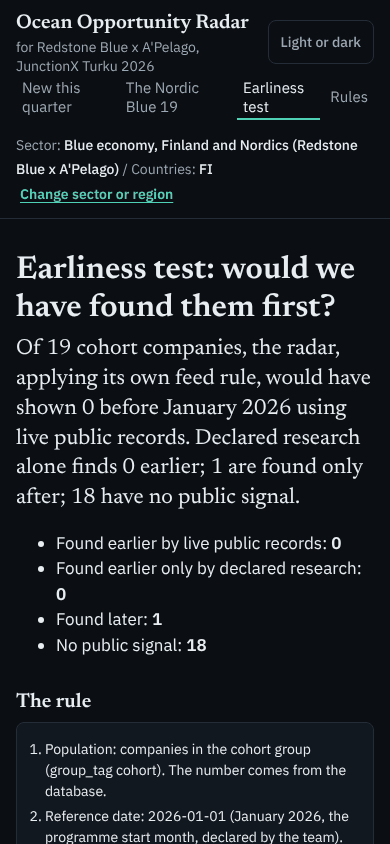
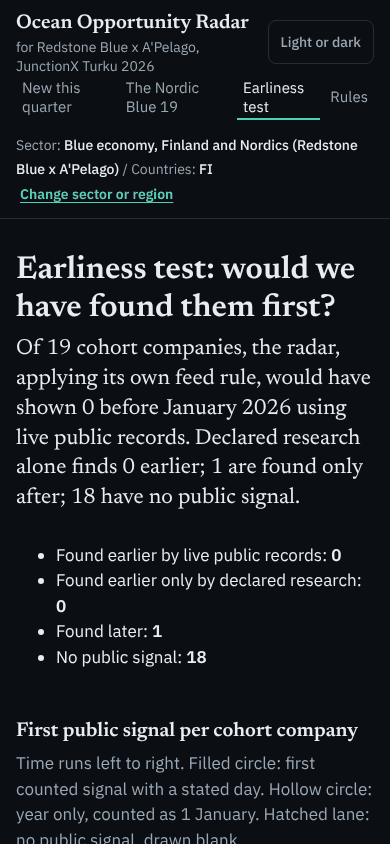
visual polish slice 2: company page answers first, phone-readable earliness chart, compact radar rows, one radius
Items 3 to 5 of tasks/cloud/jx30_visual_polish.md, plus the chief's answer on
question 02 and 03 lines:
- Company page: name, then (once cloud/vc_memo lands) the memo, then the four
  questions, then the evidence (connections, life-line, register facts,
  records). Done with CSS order on the main column; the DOM order and the
  template blocks are unchanged. Each question is a separated block with its
  one-line answer in Newsreader 22 px before the evidence. New
  radar/templates/_answers.html holds the two answer macros, one new line each
  under the 02 and 03 headings, built only from values the page shows:
  Kelluu reads "Business readiness 4 of 9, technology 4 of 9, investment 4 of
  9; ocean impact: no public evidence." and "5 funding programmes match; the
  first one is listed with its reason."; TuniSea reads "Business readiness:
  no public evidence, technology: no public evidence, investment: no public
  evidence; ocean impact: no public evidence." Question 04 uses its existing
  step sentence at the same size; question 01 keeps its long reasons
  sentence at body size until the wide-intake change gives it a short one.
  Evidence chips show the source name in teal, underlined, so they read as
  links; hatched "not in public records" chips are unchanged. The readiness
  table stacks on a phone. Header and footer line up with the three-column
  layout on a laptop. Memo styles are ready by class (.memo) in company.css.
[…]

Changed region(s): [[0.0308, 0.6161, 0.9538, 1.0]]

diff --git a/radar/static/company.css b/radar/static/company.css
@@ -31,7 +31,7 @@ main.wrap{max-width:1360px}
 .s-conf{color:var(--muted);font-size:.875rem}
 .connectors{margin-top:24px}
 .connectors li{display:flex;gap:12px;align-items:center;padding:6px 0;color:var(--muted);font-size:.875rem}
-.connectors button{min-width:7rem;min-height:36px;background:transparent;color:var(--muted);border:1px dashed var(--hairline);border-radius:6px;font:inherit;cursor:not-allowed}
+.connectors button{min-width:7rem;min-height:36px;background:transparent;color:var(--muted);border:1px dashed var(--hairline);border-radius:var(--radius);font:inherit;cursor:not-allowed}
 .co-sources{margin-top:40px;border-top:1px solid var(--hairline)}
 .co-sources h2{font-size:1rem;margin-top:16px}
 .co-sources ul{list-style:none;padding:0;margin:0}
@@ -43,8 +43,8 @@ main.wrap{max-width:1360px}
 .fact dd>a{display:inline-flex;align-items:center;min-height:var(--tap)}
 .search{display:flex;flex-wrap:wrap;gap:8px;align-items:center;margin:16px 0}
 .search label{flex:1 1 100%;color:var(--muted);font-size:.875rem}
-.search input{flex:1 1 14rem;min-height:44px;padding:0 12px;background:var(--surface);color:var(--text);border:1px solid var(--hairline);border-radius:6px;font:inherit}
-.search button{min-height:44px;padding:0 16px;background:var(--surface);color:var(--text);border:1px solid var(--accent);border-radius:6px;font:inherit;cursor:pointer}
+.search input{flex:1 1 14rem;min-height:44px;padding:0 12px;background:var(--surface);color:var(--text);border:1px solid var(--hairline);border-radius:var(--radius);font:inherit}
+.search button{min-height:44px;padding:0 16px;background:var(--surface);color:var(--text);border:1px solid var(--accent);border-radius:var(--radius);font:inherit;cursor:pointer}
 @media (min-width:1100px){
   .co-layout{display:grid;grid-template-columns:240px minmax(0,720px) 360px;gap:32px;justify-content:center;align-items:start}
   .co-rail{display:flex;flex-direction:column;position:sticky;top:16px;margin-top:32px}
@@ -68,3 +68,44 @@ main.wrap{max-width:1360px}
 /* jx20 */
 .connectors button{min-height:44px}
 .connect a{display:inline-block;min-width:44px;padding:10px 0;text-align:center}
+/* jx30: the company page leads with the answers. Visual order: name, memo (cloud/vc_memo, any element before
+   question 01), the four questions, then the evidence (connections, life-line, register facts, records).
+   The DOM order is unchanged; only the main column is reordered. */
+.co-main{display:flex;flex-direction:column}
+.co-head{display:contents}
+.co-group{order:-3}
+.co-head h1{order:-2;margin-bottom:var(--s4)}
+.q-fit{order:1}.q-ready{order:2}.q-next{order:3}.q-step{order:4}
+.connect{order:5;margin-top:var(--s7)}
+.lifeline{order:6}
+.facts{order:7;margin-top:var(--s6)}
+.signals{order:8}
+/* four clearly separated answers: rule, number, question, one answer line, then the evidence */
+.q{margin-top:var(--s6);padding-top:var(--s5);border-top:1px solid var(--hairline)}
+.co-head h1+.q,.q:first-of-type{margin-top:var(--s5)}
+.q h2{font-size:1.375rem;margin-bottom:var(--s3)}
+.answer-line,.step-sentence{font-family:var(--serif);font-size:var(--fs-answer);font-weight:400;line-height:1.35;color:var(--text);margin:0 0 var(--s3)}
+.q-ready>p.plain,.q-next>p.plain{color:var(--muted);font-size:var(--fs-small);margin:0 0 var(--s3)}
+.q-step>p.plain{margin:0 0 var(--s3)}
+/* question 01 opens with its long reasons sentence (one-line answer comes with the wide-intake change), read at body size */
+.q-fit>p.plain:first-of-type{font-size:1.0625rem;color:var(--text);margin:0 0 var(--s3)}
+.lifeline h2,.signals h2{font-size:1.25rem}
+/* evidence looks clickable; missing evidence stays hatched and never looks like a value */
+.ev-src{color:var(--accent);text-decoration:underline;text-underline-offset:3px}
+.lvl strong{font-family:var(--serif);font-size:1.1875rem;font-weight:600;color:var(--text)}
+.ready th{font-size:var(--fs-small)}
+@media (max-width:640px){
+  .ready,.ready tbody,.ready tr,.ready th,.ready td{display:block;width:100%}
+  .ready th{padding:var(--s4) 0 var(--s1);border-bottom:0}
+  .ready td{padding:0 0 var(--s4)}
+}
+/* the header and footer line up with the three-column layout on a laptop */
+body:has(.co-layout) .top .wrap,body:has(.co-layout) .foot{max-width:1360px}
+/* memo block from cloud/vc_memo: hero position, verdict at the answer size, then its four lines */
+.memo{order:0;margin:0 0 var(--s5);padding:var(--s4) var(--s4) var(--s3);border:1px solid var(--hairline);border-left:3px solid var(--accent);border-radius:var(--radius);background:var(--surface)}
+.memo h2{margin:0 0 var(--s2);font-size:var(--fs-small);font-family:var(--sans);font-weight:600;letter-spacing:.06em;text-transform:uppercase;color:var(--muted)}
+.memo .answer,.memo .memo-verdict,.memo .verdict{font-family:var(--serif);font-size:var(--fs-answer);line-height:1.3;margin:0 0 var(--s3)}
+.memo dl,.memo ul{margin:0;padding:0;list-style:none}
+.memo dt{font-weight:600}
+.memo dd{margin:0 0 var(--s3)}
+.memo li{padding:var(--s2) 0;border-top:1px solid var(--hairline)}

diff --git a/radar/static/app.css b/radar/static/app.css
@@ -38,17 +38,17 @@ nav{display:flex;gap:4px}
 nav a{display:inline-flex;align-items:center;min-height:44px;padding:0 10px;color:var(--muted);text-decoration:none}
 nav a[aria-current="page"]{color:var(--text);box-shadow:inset 0 -2px 0 var(--accent)}
 #theme-toggle{flex:none;min-height:var(--tap);padding:0 var(--s3);background:transparent;color:var(--muted);border:1px solid var(--hairline);border-radius:var(--radius);font:500 var(--fs-small) var(--sans);cursor:pointer}
-.empty{border:1px solid var(--hairline);background:var(--surface);border-radius:8px;padding:24px 16px;margin:16px 0}
-.answer{font-family:var(--serif);font-size:1.375rem;line-height:1.35;margin:0 0 12px}
+.empty{border:1px solid var(--hairline);background:var(--surface);border-radius:var(--radius);padding:24px 16px;margin:16px 0}
+.answer{font-family:var(--serif);font-size:var(--fs-answer);line-height:1.35;margin:0 0 12px}
 .answer code{color:var(--accent)}
-.hatch{display:inline-block;padding:2px 10px;border:1px solid var(--hairline);border-radius:999px;font-size:.875rem;color:var(--muted);background:repeating-linear-gradient(135deg,transparent 0 5px,var(--hairline) 5px 6px)}
+.hatch{display:inline-block;padding:2px 10px;border:1px solid var(--hairline);border-radius:var(--round);font-size:.875rem;color:var(--muted);background:repeating-linear-gradient(135deg,transparent 0 5px,var(--hairline) 5px 6px)}
 .rule{color:var(--muted);font-size:.875rem;border-top:1px solid var(--hairline);padding-top:12px;margin-top:24px}
-.rulebox{background:var(--surface);border:1px solid var(--hairline);border-radius:8px;padding:12px 16px;overflow-x:auto;white-space:pre-wrap}
+.rulebox{background:var(--surface);border:1px solid var(--hairline);border-radius:var(--radius);padding:12px 16px;overflow-x:auto;white-space:pre-wrap}
 .feed{list-style:none;padding:0;margin:0}
 .feed li{display:flex;flex-wrap:wrap;gap:4px 16px;align-items:baseline;padding:12px 0;border-bottom:1px solid var(--hairline)}
 .feed .co{font-weight:600;color:var(--text)}
 .feed .sig,.feed time{color:var(--muted);font-size:.875rem}
-.chip{font-size:.875rem;border:1px solid var(--hairline);border-radius:999px;padding:2px 10px;text-decoration:none}
+.chip{font-size:.875rem;border:1px solid var(--hairline);border-radius:var(--round);padding:2px 10px;text-decoration:none}
 .foot{display:flex;justify-content:space-between;gap:16px;flex-wrap:wrap;border-top:1px solid var(--hairline);margin-top:48px;padding:16px;color:var(--muted);font-size:.875rem}
 nav .soon{display:inline-flex;align-items:center;min-height:44px;padding:0 10px;color:var(--muted);opacity:.6}
 
@@ -94,8 +94,8 @@ details.why-box>summary{display:flex;align-items:center;min-height:44px;cursor:p
 .how li{counter-increment:s;padding:16px 0;border-bottom:1px solid var(--hairline)}
 .how li::before{content:counter(s);font-family:var(--serif);font-size:1.5rem;color:var(--accent);margin-right:10px}
 .how li p{display:inline;font-size:1.0625rem}
-.how img{display:block;width:100%;max-width:420px;height:auto;margin-top:12px;border:1px solid var(--hairline);border-radius:8px}
-.errpage .btnlink{border:1px solid var(--accent);padding:0 16px;border-radius:6px}
+.how img{display:block;width:100%;max-width:420px;height:auto;margin-top:12px;border:1px solid var(--hairline);border-radius:var(--radius)}
+.errpage .btnlink{border:1px solid var(--accent);padding:0 16px;border-radius:var(--radius)}
 .tiles .tile{display:flex;align-items:flex-start;text-align:left}
 @media (max-width:640px){
   .bar{gap:0 12px}

diff --git a/radar/static/feed.css b/radar/static/feed.css
@@ -2,16 +2,16 @@
 .search{margin:0 0 16px}
 .search label{display:block;font-size:1rem;font-weight:600;color:var(--text);margin-bottom:var(--s1)}
 .searchrow{display:flex;gap:8px}
-.searchrow input{flex:1;min-width:0;min-height:44px;padding:0 12px;border:1px solid var(--hairline);border-radius:8px;background:var(--surface);color:var(--text);font:inherit}
-.searchrow button{min-height:44px;padding:0 16px;border:1px solid var(--accent);border-radius:8px;background:transparent;color:var(--accent);font:inherit;font-weight:600;cursor:pointer}
+.searchrow input{flex:1;min-width:0;min-height:44px;padding:0 12px;border:1px solid var(--hairline);border-radius:var(--radius);background:var(--surface);color:var(--text);font:inherit}
+.searchrow button{min-height:44px;padding:0 16px;border:1px solid var(--accent);border-radius:var(--radius);background:transparent;color:var(--accent);font:inherit;font-weight:600;cursor:pointer}
 .searchrow input:focus-visible,.searchrow button:focus-visible{outline:2px solid var(--accent);outline-offset:2px}
 .matches ul{list-style:none;padding:0;margin:0 0 16px}
 .matches li{padding:10px 0;border-bottom:1px solid var(--hairline)}
 .matches h2{margin-top:8px}
-.answer{font-family:var(--serif);font-size:1.25rem;margin:16px 0 8px}
+.answer{font-family:var(--serif);font-size:var(--fs-answer);line-height:1.35;margin:var(--s4) 0 var(--s2)}
 
 .pills{display:flex;flex-wrap:wrap;gap:8px;margin:16px 0}
-.pill{display:inline-flex;align-items:center;gap:6px;min-height:44px;padding:0 14px;border:1px solid var(--hairline);border-radius:999px;
+.pill{display:inline-flex;align-items:center;gap:6px;min-height:44px;padding:0 14px;border:1px solid var(--hairline);border-radius:var(--round);
   color:var(--text);text-decoration:none;font-size:.875rem;background:var(--surface)}
 .pill .n{color:var(--muted);font-variant-numeric:tabular-nums}
 .pill.zero{color:var(--muted)}
@@ -34,7 +34,7 @@
 .sep{padding:0 2px}
 .detail{margin:8px 0 8px;overflow-wrap:anywhere}
 .proof{display:flex;flex-wrap:wrap;align-items:center;gap:8px;margin-top:8px}
-.amt{display:inline-flex;flex-wrap:wrap;align-items:center;gap:2px 8px;min-height:44px;padding:4px 12px;border:1px solid var(--hairline);border-radius:999px;
+.amt{display:inline-flex;flex-wrap:wrap;align-items:center;gap:2px 8px;min-height:44px;padding:4px 12px;border:1px solid var(--hairline);border-radius:var(--round);
   color:var(--text);text-decoration:none;font-size:.875rem;font-variant-numeric:tabular-nums;font-weight:600}
 .amt-src{font-weight:400;color:var(--muted)}
 .conf{font-size:.875rem;color:var(--muted)}
@@ -51,4 +51,4 @@
 details.weak{margin-top:32px;border-top:1px solid var(--hairline)}
 details.weak>summary{cursor:pointer;padding:16px 0;color:var(--muted);font-weight:600}
 .reasons dt{font-weight:600;margin-top:8px}.reasons dd{margin:0 0 0 16px;color:var(--muted)}
-.cc{display:inline-block;margin-left:6px;padding:0 6px;border:1px solid var(--hairline);border-radius:4px;font-size:.875rem;color:var(--muted);vertical-align:middle}
+.cc{display:inline-block;margin-left:6px;padding:0 6px;border:1px solid var(--hairline);border-radius:var(--radius);font-size:.875rem;color:var(--muted);vertical-align:middle}

diff --git a/radar/static/backtest.css b/radar/static/backtest.css
@@ -2,7 +2,7 @@
 .muted{color:var(--muted);font-size:.875rem}
 .bt-rule{white-space:normal;padding-left:28px;margin:8px 0;font-size:.875rem}
 .bt-rule li{margin:4px 0}
-.bt-chart{display:block;width:100%;max-width:520px;height:auto;margin:8px 0 24px;font-family:var(--sans)}
+.bt-chart{display:block;width:100%;max-width:520px;height:auto;margin:8px 0 24px;font-family:var(--sans);overflow:visible}
 .bt-chart text{fill:var(--text);font-size:11.5px}
 .bt-name{font-weight:600;font-size:12.5px}
 .bt-chart a:focus-visible text{text-decoration:underline}
@@ -27,3 +27,32 @@
   .bt-table td{border:0;padding:2px 0;white-space:normal}
   .bt-table td:nth-child(3),.bt-table td:nth-child(4){display:inline-block;width:auto;margin-right:12px}
 }
+/* jx30: on a phone the lanes are HTML (bt-phone), so names and labels stay at 14 px or more and wrap; the SVG serves wider screens */
+.bt-phone{display:none}
+@media (max-width:640px){
+  .bt-chart{display:none}
+  .bt-phone{display:block;margin:var(--s2) 0 var(--s5);overflow:hidden}
+  .bt-lrow{display:grid;grid-template-columns:minmax(0,1fr) 44%;column-gap:var(--s3);align-items:center;border-top:1px solid var(--hairline)}
+  .bt-laxis{border-top:0}
+  .bt-lname{display:flex;align-items:center;min-height:var(--tap);font-size:.9375rem;font-weight:600;line-height:1.2;overflow-wrap:anywhere}
+  .bt-ltrack{position:relative;grid-column:2;grid-row:1;height:var(--tap)}
+  .bt-ltrack::before{content:"";position:absolute;left:0;right:0;top:50%;border-top:1px solid var(--hairline)}
+  .bt-laxis .bt-ltrack{height:28px}
+  .bt-laxis .bt-ltrack::before{display:none}
+  .blank .bt-ltrack::before{top:calc(50% - 9px);height:18px;border:0;background:repeating-linear-gradient(135deg,transparent 0 5px,var(--hairline) 5px 6px)}
+  .bt-lref{position:absolute;top:0;bottom:0;border-left:2px solid var(--accent)}
+  .bt-lmk{position:absolute;top:50%;width:14px;height:14px;margin:-7px 0 0 -7px;border-radius:50%;background:var(--accent);border:2px solid var(--accent);box-sizing:border-box}
+  .bt-lmk.hollow{background:var(--bg)}
+  .bt-ltick{position:absolute;bottom:2px;padding-left:4px;border-left:1px dashed var(--muted);font-size:var(--fs-small);line-height:1.2;color:var(--muted)}
+  .bt-llabel{grid-column:1/-1;font-size:var(--fs-small);color:var(--muted);padding:0 0 var(--s2)}
+  .blank .bt-llabel{position:relative;z-index:1;grid-column:2;grid-row:1;align-self:center;justify-self:start;margin-left:var(--s2);padding:0 var(--s1);background:var(--bg);color:var(--muted)}
+  .bt-lnote{margin:var(--s2) 0 0;font-size:var(--fs-small);color:var(--muted)}
+}
+/* the chart sits right under the headline and the four groups; the long rule follows the table */
+body:has(.bt-chart) main{display:flex;flex-direction:column}
+body:has(.bt-chart) main>*{order:1}
+body:has(.bt-chart) main>h1,body:has(.bt-chart) main>#verdict,body:has(.bt-chart) main>.bt-groups,
+body:has(.bt-chart) main>section[aria-labelledby="chart-h"]{order:0}
+body:has(.bt-chart) main>section[aria-labelledby="tbl-h"]{order:2}
+body:has(.bt-chart) main>section[aria-labelledby="rule-h"]{order:3}
+body:has(.bt-chart) main>section[aria-labelledby="lim-h"]{order:4}

diff --git a/radar/static/radar.css b/radar/static/radar.css
@@ -8,7 +8,7 @@
 .rd-name a{display:inline-block;min-height:24px;font-weight:600}
 .rd-name .muted{display:block}
 .rd-n{font-size:1.125rem;font-weight:600}
-.rd-tag{display:inline-block;margin:0 6px 4px 0;font-size:.875rem;color:var(--muted);border:1px solid var(--hairline);padding:1px 6px;border-radius:3px}
+.rd-tag{display:inline-block;margin:0 6px 4px 0;font-size:.875rem;color:var(--muted);border:1px solid var(--hairline);padding:1px 6px;border-radius:var(--radius)}
 .rd-sub th{padding-top:20px;color:var(--text);font-size:.875rem}
 .rd-none .rd-name a{font-weight:500}
 .rd-axis{stroke:var(--hairline);stroke-width:1}
@@ -27,7 +27,7 @@
   .rd-sub th{border:0}
 }
 .rd-table .ev{display:block}
-.rd-table .ev-chip{display:inline-flex;flex-wrap:nowrap;gap:6px;align-items:baseline;padding:2px 8px;border-radius:4px;white-space:nowrap;font-size:.875rem}
+.rd-table .ev-chip{display:inline-flex;flex-wrap:nowrap;gap:6px;align-items:baseline;padding:2px 8px;border-radius:var(--round);white-space:nowrap;font-size:.875rem}
 .rd-table .ev-fetched{display:none}
 .rd-table .ev-conf{font-size:.875rem;color:var(--muted)}
 .rd-table .rd-latest .muted{display:block}
@@ -51,3 +51,15 @@ main.wrap{max-width:1040px}
 .rd-table td,.rd-table th{padding-left:6px;padding-right:6px}
 .rd-table .rd-latest .ev-conf{display:none}
 @media (max-width:640px){.rd-strip{width:100%}.rd-strip svg{width:120px}.rd-types{width:100%}.rd-table .rd-latest .ev-conf{display:inline}}
+/* jx30: on a phone each row reads as one small card: name and count on top, country under the name, then the latest record and the timeline. */
+@media (max-width:640px){
+  .rd-table tr.rd-row{display:grid;grid-template-columns:minmax(0,1fr) auto;column-gap:var(--s3);align-items:center;padding:var(--s2) 0}
+  .rd-table td.rd-name{grid-column:1;grid-row:1}
+  .rd-table td.rd-name a{min-height:var(--tap);line-height:1.25;display:inline-flex;align-items:center}
+  .rd-table td.rd-n{grid-column:2;grid-row:1;justify-self:end;margin:0;font-family:var(--serif);font-size:1.375rem}
+  .rd-table td.rd-cc{grid-column:1/-1;grid-row:2;margin:0;color:var(--muted);font-size:var(--fs-small)}
+  .rd-table td.rd-latest,.rd-table td.rd-types,.rd-table td.rd-strip{grid-column:1/-1}
+  .rd-none .rd-latest{display:none!important}
+  .rd-none td.rd-n{font-family:var(--sans);font-size:inherit}
+  .rd-table td.rd-strip svg{width:100%;max-width:240px;height:18px}
+}

diff --git a/radar/templates/_answers.html b/radar/templates/_answers.html
@@ -1,0 +1,24 @@
+{# One-line answers for the company page (jx30). Each sentence is built only from values the page already shows:
+   the levels in question 02 and the rows listed in question 03. A missing level reads "no public evidence", never a number. #}
+
+{% macro _level(name, r, scale="9") -%}
+{{ name }}{% if r and r.level %} {{ r.level }} of {{ scale }}{% else %}: no public evidence{% endif %}
+{%- endmacro %}
+
+{# Question 02: the four frameworks, in the order the table below shows them, read as one line. #}
+{% macro ready_answer(fw) -%}
+<p class="answer-line" id="q2-answer">{{ _level("Business readiness", fw.brl) }}, {{ _level("technology", fw.trl) }}, {{ _level("investment", fw.irl) }}; ocean impact{% if fw.category and fw.category.category %} category {{ fw.category.category }}{% else %}: no public evidence{% endif %}.</p>
+{%- endmacro %}
+
+{% macro _count(n, one, many) -%}
+{{ n }} {{ one if n == 1 else many }}
+{%- endmacro %}
+
+{# Question 03: how many rows each list below holds, and that the first row of each carries its reason. #}
+{% macro next_answer(nxt) -%}
+{% set parts = [] %}
+{% if nxt.investors %}{% set _ = parts.append(_count(nxt.investors | length, "investor", "investors")) %}{% endif %}
+{% if nxt.funding %}{% set _ = parts.append(_count(nxt.funding | length, "funding programme", "funding programmes")) %}{% endif %}
+{% if nxt.partners %}{% set _ = parts.append(_count(nxt.partners | length, "partner", "partners")) %}{% endif %}
+<p class="answer-line" id="q3-answer">{% if parts %}{{ parts[:-1] | join(", ") }}{% if parts | length > 1 %} and {% endif %}{{ parts[-1] }} match; the first one is listed with its reason.{% else %}No investor, funding programme or partner matches in the dataset yet.{% endif %}</p>
+{%- endmacro %}

diff --git a/radar/templates/backtest.html b/radar/templates/backtest.html
@@ -44,6 +44,19 @@
     {% endfor %}
     <g class="bt-ref"><line x1="{{ chart.ref_x }}" x2="{{ chart.ref_x }}" y1="{{ chart.top - 4 }}" y2="{{ chart.h - 4 }}"/><text x="{{ chart.ref_x + (-4 if chart.ref_anchor == 'end' else 4) }}" y="12" text-anchor="{{ chart.ref_anchor }}">reference {{ chart.ref_label }}</text></g>
   </svg>
+  {# jx30: the same lanes as HTML for a phone, where the SVG text would shrink below 10 px. Positions come from the chart geometry above. #}
+  {% set span = chart.x1 - chart.x0 %}{% macro pct(x) %}{{ ((x - chart.x0) / span * 100) | round(1) }}%{% endmacro %}
+  <div class="bt-phone">
+    <div class="bt-lrow bt-laxis"><span></span><div class="bt-ltrack">{% for t in chart.ticks %}<span class="bt-ltick" style="left:{{ pct(t.x) }}">{{ t.label }}</span>{% endfor %}<span class="bt-lref" style="left:{{ pct(chart.ref_x) }}"></span></div></div>
+    {% for l in chart.lanes %}
+    <div class="bt-lrow{% if l.blank %} blank{% endif %}">
+      <a class="bt-lname" href="/c/{{ l.key }}">{{ l.name }}</a>
+      <div class="bt-ltrack"><span class="bt-lref" style="left:{{ pct(chart.ref_x) }}"></span>{% if not l.blank %}<span class="bt-lmk{% if l.hollow %} hollow{% endif %}" style="left:{{ pct(l.mx) }}"></span>{% endif %}</div>
+      {% if l.blank %}<span class="bt-llabel bt-lblank">no public signal</span>{% else %}<span class="bt-llabel">{{ l.label }}</span>{% endif %}
+    </div>
+    {% endfor %}
+    <p class="bt-lnote">The vertical line is the reference date, {{ chart.ref_label }}.</p>
+  </div>
 </section>
 
 <section aria-labelledby="tbl-h">

diff --git a/radar/static/chip.css b/radar/static/chip.css
@@ -1,13 +1,13 @@
 /* Evidence chip (Receipts). Tokens only: --surface --text --muted --hairline --accent from app.css. */
 .ev{display:inline-flex;flex-wrap:wrap;align-items:center;gap:.5rem}
 .ev-chip{display:inline-flex;flex-wrap:wrap;align-items:center;gap:.25rem .6rem;min-height:44px;padding:.25rem .75rem;
-  border:1px solid var(--hairline);border-radius:999px;background:var(--surface);color:var(--text);text-decoration:none;font-size:.875rem}
+  border:1px solid var(--hairline);border-radius:var(--round);background:var(--surface);color:var(--text);text-decoration:none;font-size:.875rem}
 .ev-chip:hover,.ev-chip:focus-visible{border-color:var(--accent)}
 .ev-src{font-weight:600}
 .ev-date{font-variant-numeric:tabular-nums}
 .ev-fetched{color:var(--muted);font-variant-numeric:tabular-nums}
 .ev-conf{color:var(--muted);font-size:.875rem}
-.ev-missing{display:inline-flex;align-items:center;min-height:44px;padding:.25rem .75rem;border:1px solid var(--hairline);border-radius:999px;
+.ev-missing{display:inline-flex;align-items:center;min-height:44px;padding:.25rem .75rem;border:1px solid var(--hairline);border-radius:var(--round);
   font-size:.875rem;color:var(--muted);
   background:repeating-linear-gradient(135deg,transparent 0 5px,var(--hairline) 5px 6px)}
 @media (min-width:640px){.ev-chip,.ev-missing{min-height:32px}}

diff --git a/radar/templates/company.html b/radar/templates/company.html
@@ -78,6 +78,7 @@
 
 <section id="q2" class="q q-ready">
   <h2><span class="num">02</span> How ready are they</h2>
+  {% from "_answers.html" import ready_answer %}{{ ready_answer(fw) }}
   {% macro lvl(r, scale) -%}
     {% if r.level %}<p class="lvl"><strong>level {{ r.level }} of {{ scale }}</strong> from public records{% if r.evidence %}, latest source dated {{ r.evidence[0].evidence.date_label or r.evidence[0].evidence.event_date or "no date" }}{% endif %}: {{ r.because }}</p>
     <div class="chips">{% for s in r.evidence[:4] %}{{ chip(s.evidence, True) }}{% endfor %}</div>
@@ -136,6 +137,7 @@
 
 <section id="q3" class="q q-next">
   <h2><span class="num">03</span> Who comes next</h2>
+  {% from "_answers.html" import next_answer %}{{ next_answer(nxt) }}
   <p class="plain">Investors, funding and partners to approach, in priority order. Scored matches come from the declared ecosystem dataset{% if eco and eco.label %}: {{ eco.label }}{% endif %}; low-confidence rows are leads, not facts.</p>
   <div class="nx-grid">
   {% for title, k in (("Investors", "investors"), ("Funding and programmes", "funding"), ("Partners and clients", "partners")) %}

diff --git a/radar/templates/how.html b/radar/templates/how.html
@@ -6,7 +6,7 @@
 <p class="plain">Five short steps. Nothing here is a score from us: every line comes from a public record you can open.</p>
 <ol>
   <li><p><strong>Start page.</strong> Startups that showed up in public records lately, newest first. Each line says what was found, when, and links to the record.</p>
-    <img src="/static/how/feed.png" alt="Start page: search box, three big buttons and the list of new startups" width="390" loading="lazy"></li>
+    <img src="/static/how/feed.png" alt="Start page: one sentence on what this is, the search box, the filters and the first new startup" width="390" loading="lazy"></li>
   <li><p><strong>Find one startup.</strong> Type a name in the box. If nothing is found, try the registered name ending in Oy.</p>
     <img src="/static/how/search.png" alt="Search results for a startup name" width="390" loading="lazy"></li>
   <li><p><strong>Open its page.</strong> Four questions in order: how well it fits, how ready it is, who to introduce it to, what should happen next. Tap See why to see the records behind each answer.</p>

diff --git a/tests/test_visual_polish.py b/tests/test_visual_polish.py
@@ -60,3 +60,55 @@ def test_no_text_under_14px_outside_the_svg_charts():
                 if px < 14:
                     small.append((f.name, sel.strip(), size))
     assert not small, small
+
+
+# One-line answers for questions 02 and 03 (radar/templates/_answers.html), built only from values the page shows.
+
+def _answer(t, qid):
+    m = re.search(r'<p class="answer-line" id="%s-answer">(.*?)</p>' % qid, t, re.S)
+    return m and m.group(1)
+
+
+def _section(t, qid):
+    return t.split('<section id="%s"' % qid, 1)[1].split("</section>", 1)[0]
+
+
+def test_answer_lines_on_kelluu(client):
+    t = client.get("/c/2902007-2").text
+    q2 = _answer(t, "q2")
+    assert q2 == "Business readiness 4 of 9, technology 4 of 9, investment 4 of 9; ocean impact: no public evidence."
+    sec = _section(t, "q2")
+    assert sec.index("q2-answer") < sec.index('class="ready"'), "the answer comes before the evidence"
+    assert sec.count("<strong>level 4 of 9</strong>") == 3, "every number in the line is a level the table shows"
+    q3 = _answer(t, "q3")
+    rows = [len(re.findall(r"<li>", part.split("</ol>")[0])) if "<ol>" in part else 0
+            for part in _section(t, "q3").split('<div class="nx-list">')[1:]]
+    assert q3.endswith("match; the first one is listed with its reason.")
+    for n, word in zip(rows, ("investor", "funding programme", "partner")):
+        assert (f"{n} {word}" in q3) == (n > 0), (rows, q3)
+
+
+def test_answer_lines_on_a_company_with_no_evidence(client):
+    t = client.get("/c/no-tunisea").text
+    q2 = _answer(t, "q2")
+    assert q2 == ("Business readiness: no public evidence, technology: no public evidence, "
+                  "investment: no public evidence; ocean impact: no public evidence.")
+    assert not re.search(r"\d", q2), "a missing level is never a number"
+    assert _answer(t, "q3"), "question 03 always has its line"
+
+
+def test_answer_macros_on_their_own():
+    from jinja2 import Environment, FileSystemLoader
+    env = Environment(loader=FileSystemLoader(str(ROOT / "radar" / "templates")))
+    mod = env.get_template("_answers.html").module
+    none = {"level": None}
+    assert "Business readiness: no public evidence, technology: no public evidence" in str(
+        mod.ready_answer({"brl": none, "trl": none, "irl": none, "category": {"category": None}}))
+    some = str(mod.ready_answer({"brl": {"level": 7}, "trl": none, "irl": {"level": 3}, "category": {"category": "Ocean data"}}))
+    assert "Business readiness 7 of 9, technology: no public evidence, investment 3 of 9; ocean impact category Ocean data." in some
+    assert "No investor, funding programme or partner matches in the dataset yet." in str(
+        mod.next_answer({"investors": [], "funding": [], "partners": []}))
+    two = str(mod.next_answer({"investors": [{}], "funding": [{}, {}], "partners": []}))
+    assert "1 investor and 2 funding programmes match; the first one is listed with its reason." in two
+    three = str(mod.next_answer({"investors": [{}] * 5, "funding": [{}] * 5, "partners": [{}] * 5}))
+    assert "5 investors, 5 funding programmes and 5 partners match;" in three
